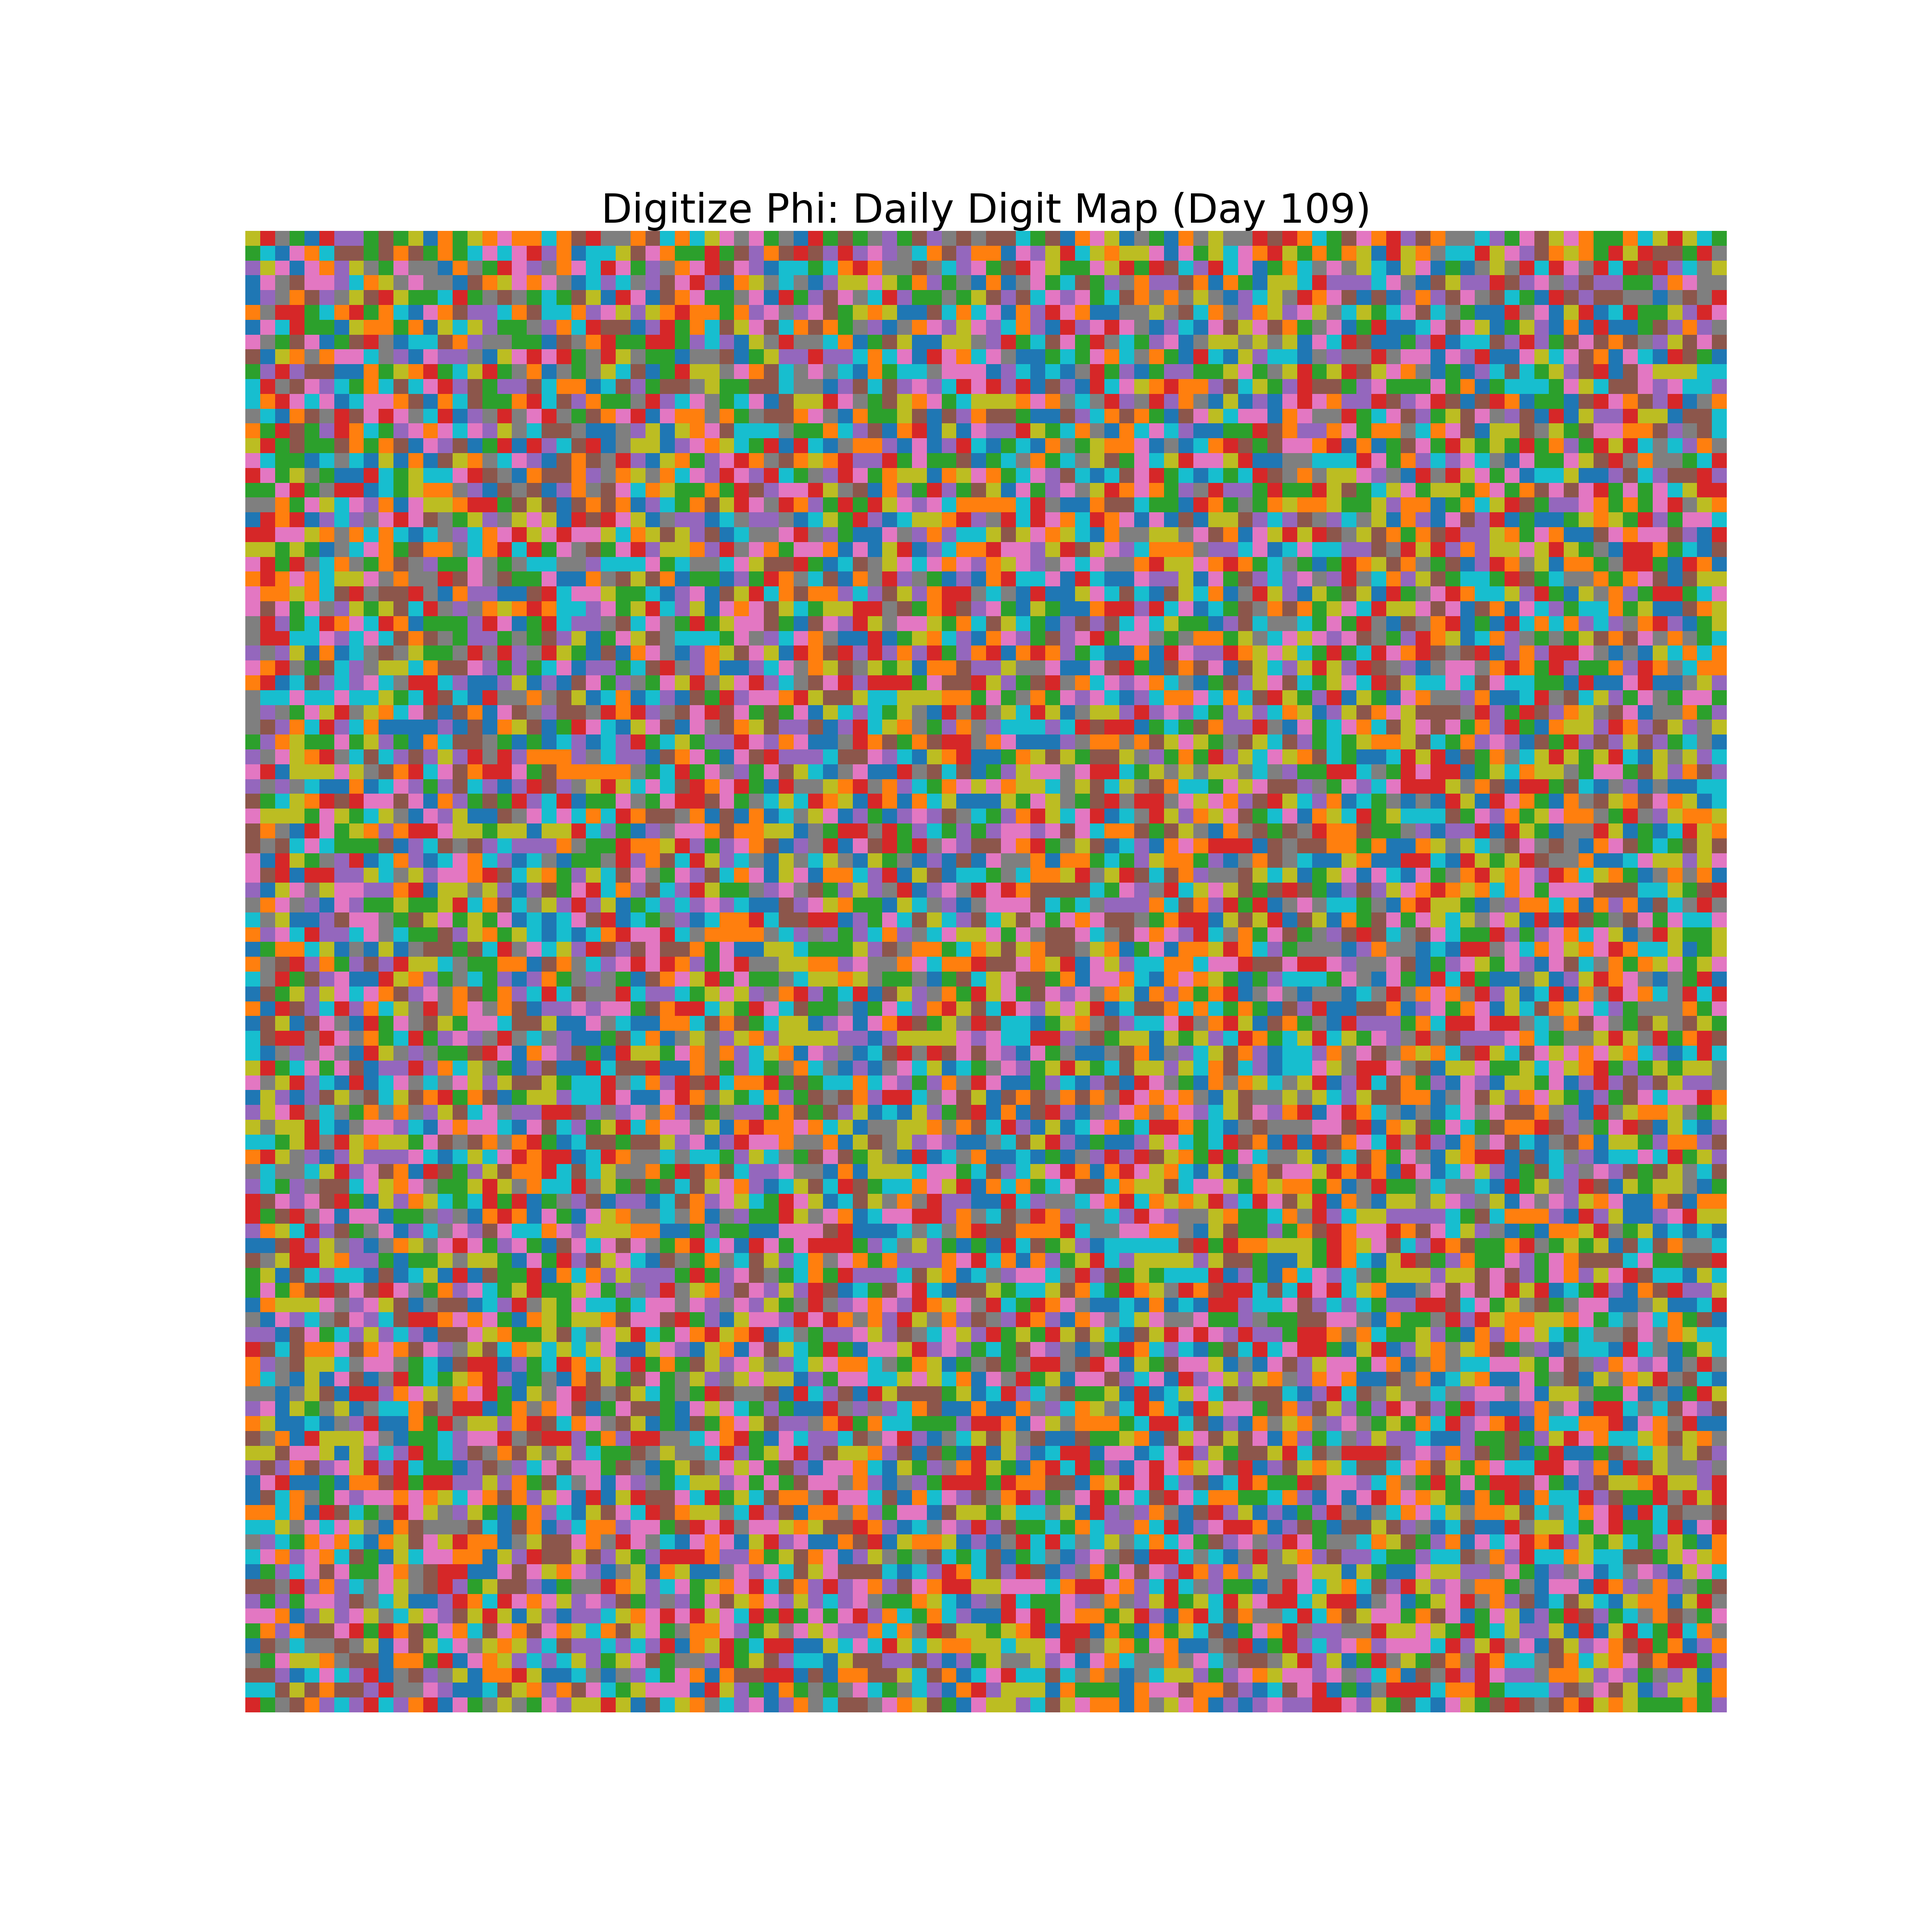
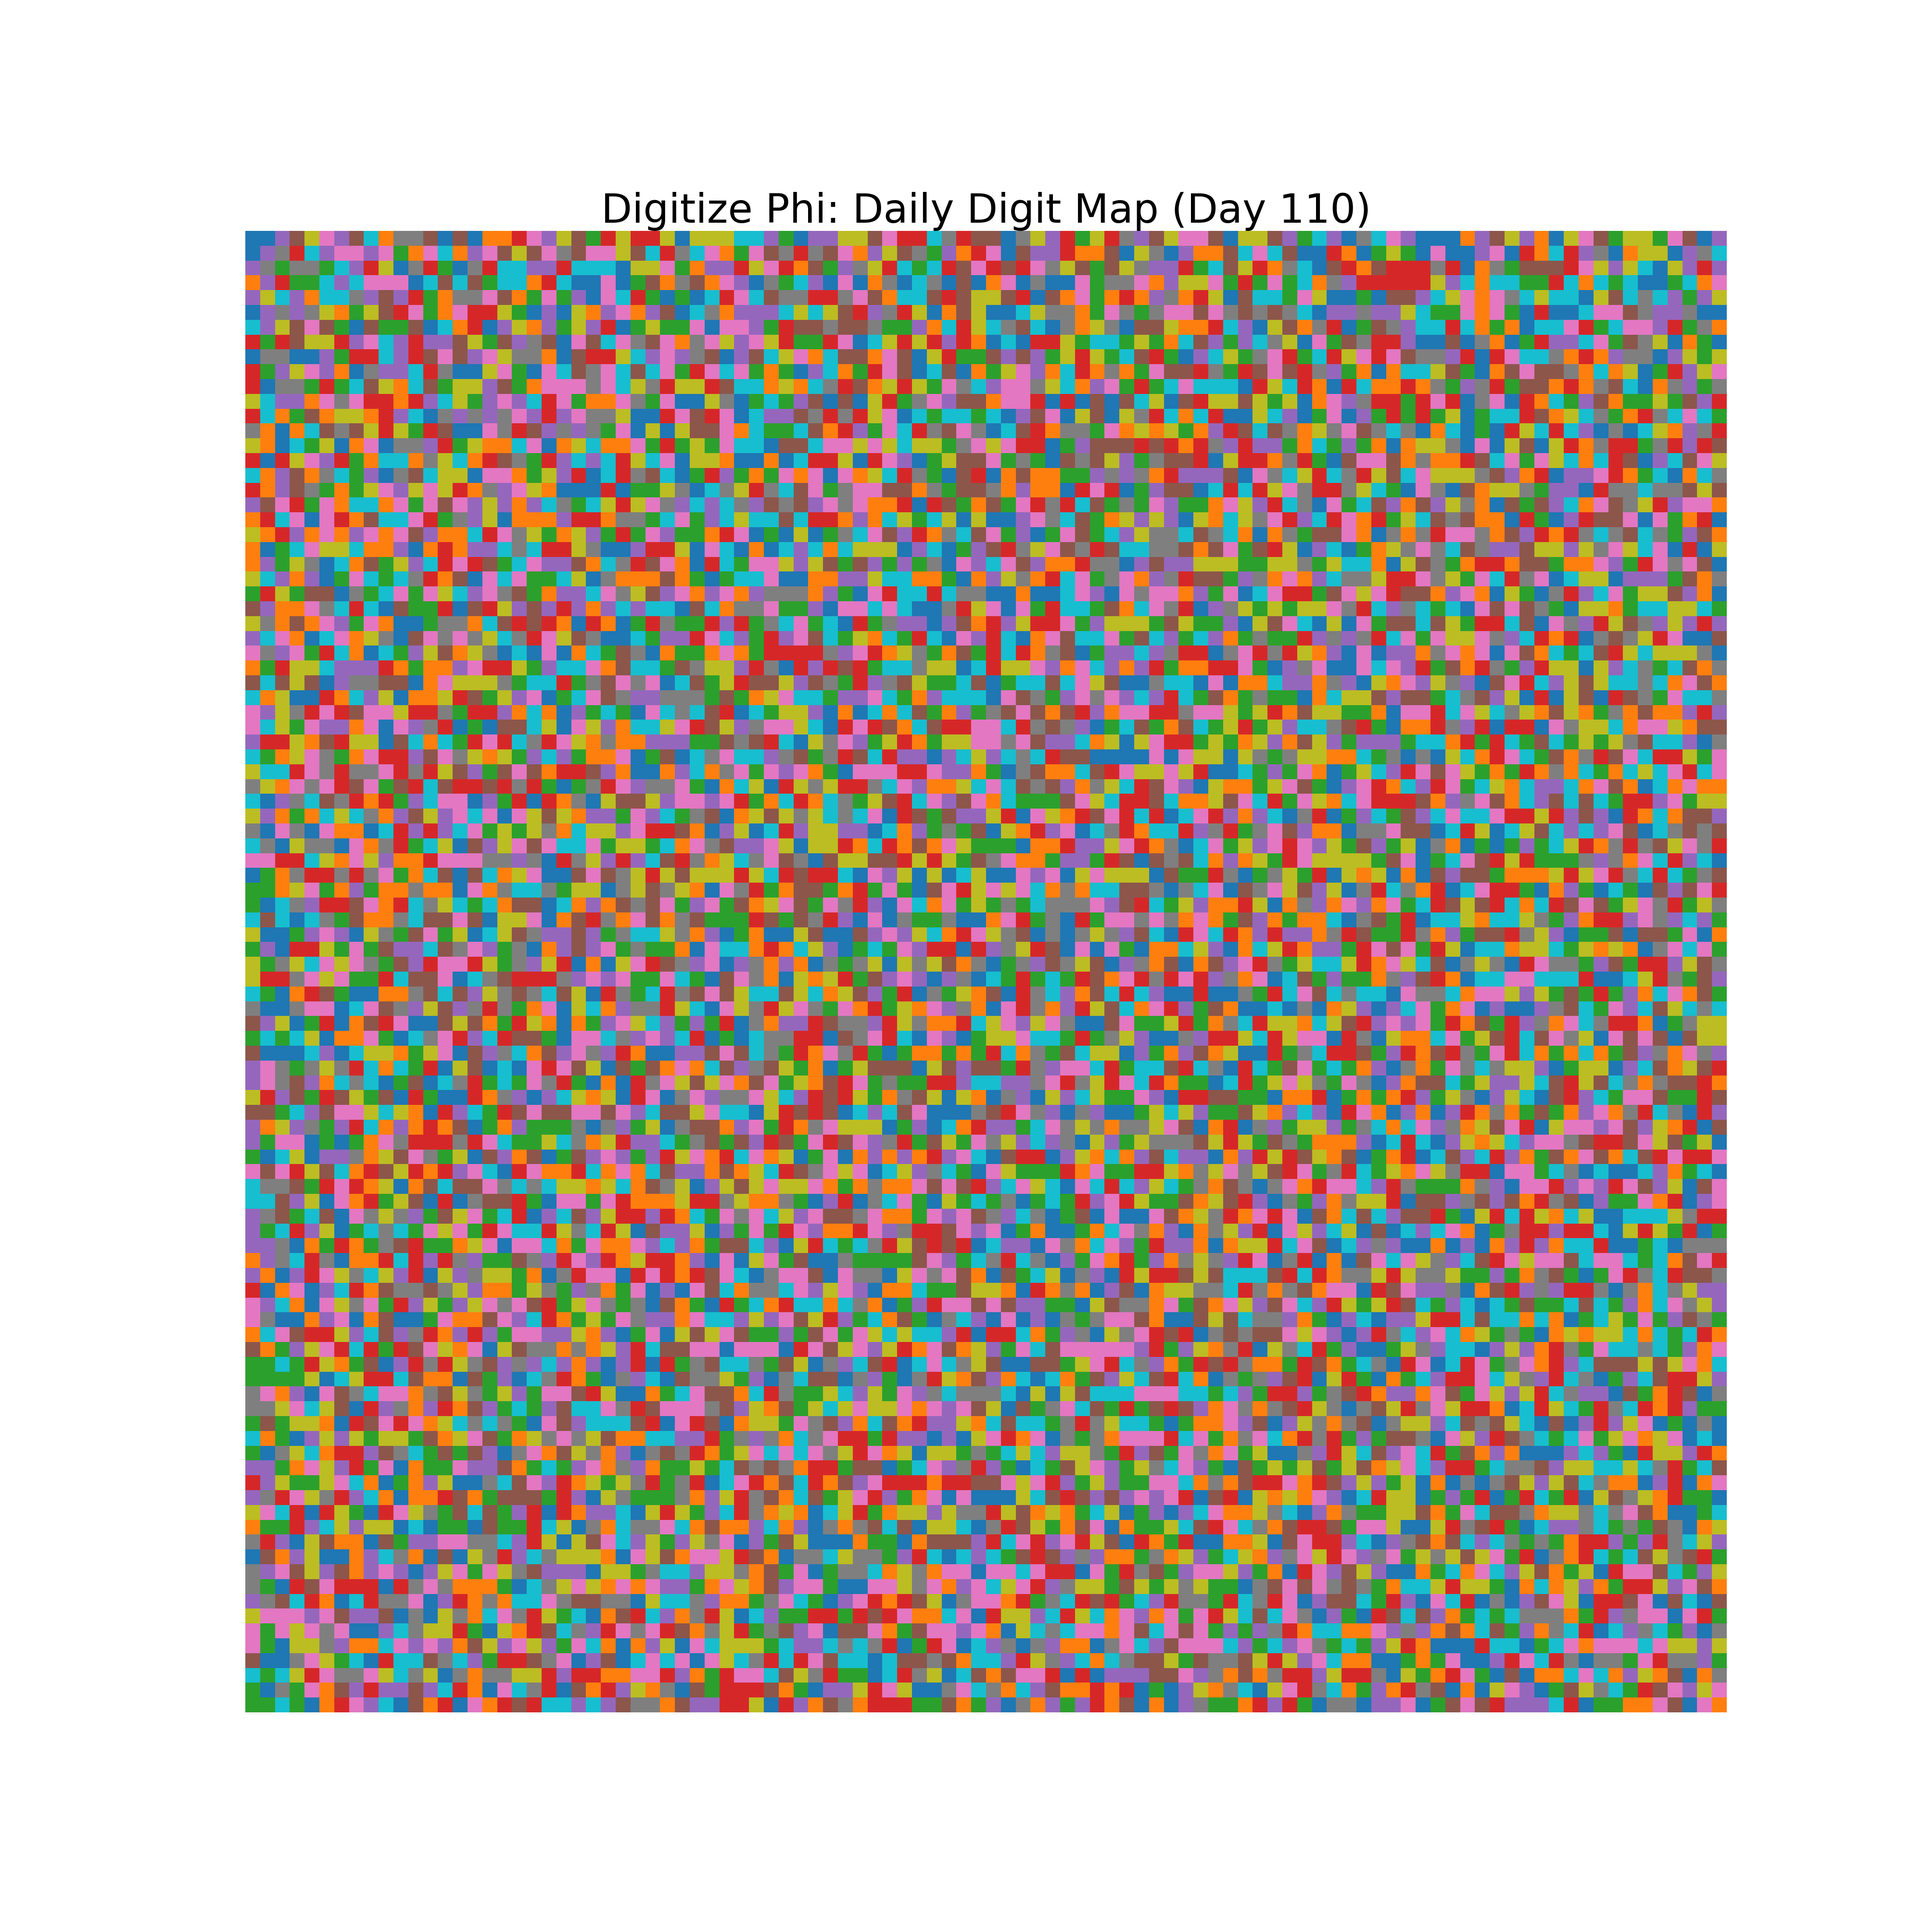
job(assets, json, html, xml): Digitize Phi: Update assets for Day 110 in 4 PNG files, 3 JSON files, 2 HTML files, and 1 XML file

diff --git a/til/digitize-phi/archives/histogram.html b/til/digitize-phi/archives/histogram.html
@@ -28,6 +28,12 @@
         <div class="histogram-archive">
 
             <div class="histogram-entry">
+                <h2>Day 110: Digits 1,090,001 - 1,100,000</h2>
+                <p class="histogram-date">October 13, 2025</p>
+                <img src="../../../assets/digitize-phi/archives/108_histogram.png" alt="Histogram of Phi digit frequencies for day 110">
+            </div>
+
+            <div class="histogram-entry">
                 <h2>Day 109: Digits 1,080,001 - 1,090,000</h2>
                 <p class="histogram-date">October 12, 2025</p>
                 <img src="../../../assets/digitize-phi/archives/108_histogram.png" alt="Histogram of Phi digit frequencies for day 109">

diff --git a/til/digitize-phi/archives/heatmap.html b/til/digitize-phi/archives/heatmap.html
@@ -27,6 +27,13 @@
 
         <div class="heatmap-archive">
 
+
+            <div class="heatmap-entry">
+                <h2>Day 110: Digits 1,090,001 - 1,100,000</h2>
+                <p class="heatmap-date">October 13, 2025</p>
+                <img src="../../../assets/digitize-phi/archives/110_heatmap.png" alt="Heatmap of Phi digit frequencies for day 110">
+            </div>
+
             <div class="heatmap-entry">
                 <h2>Day 109: Digits 1,080,001 - 1,090,000</h2>
                 <p class="heatmap-date">October 12, 2025</p>
